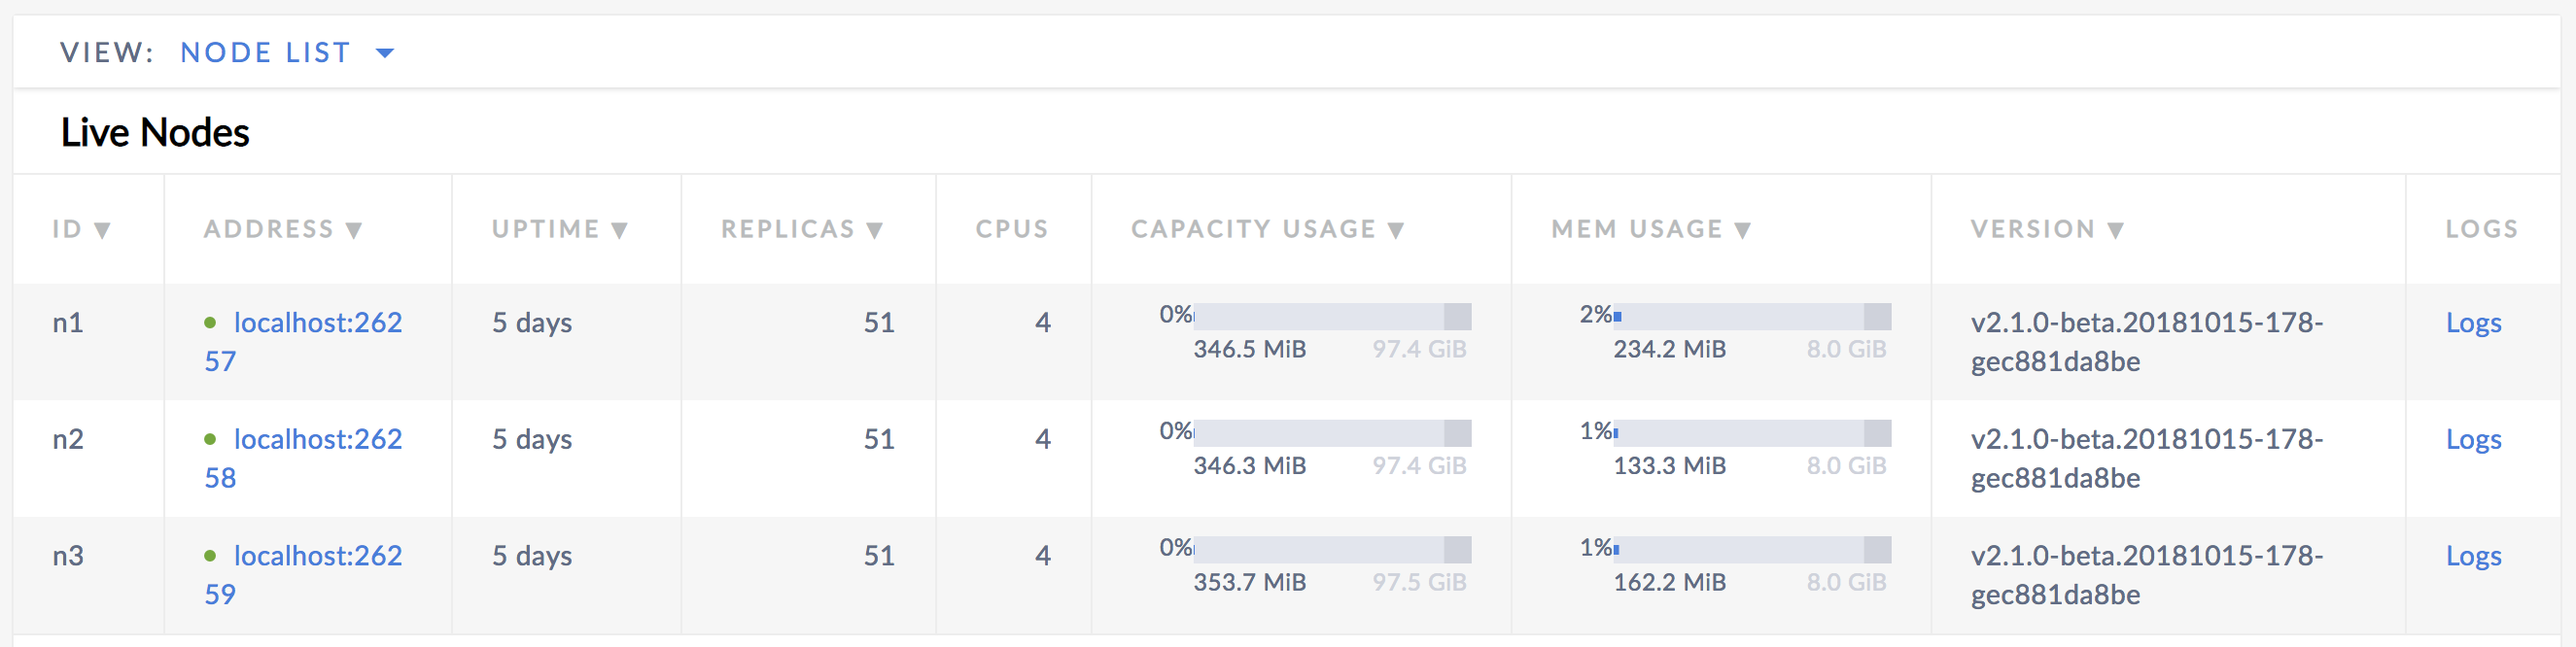
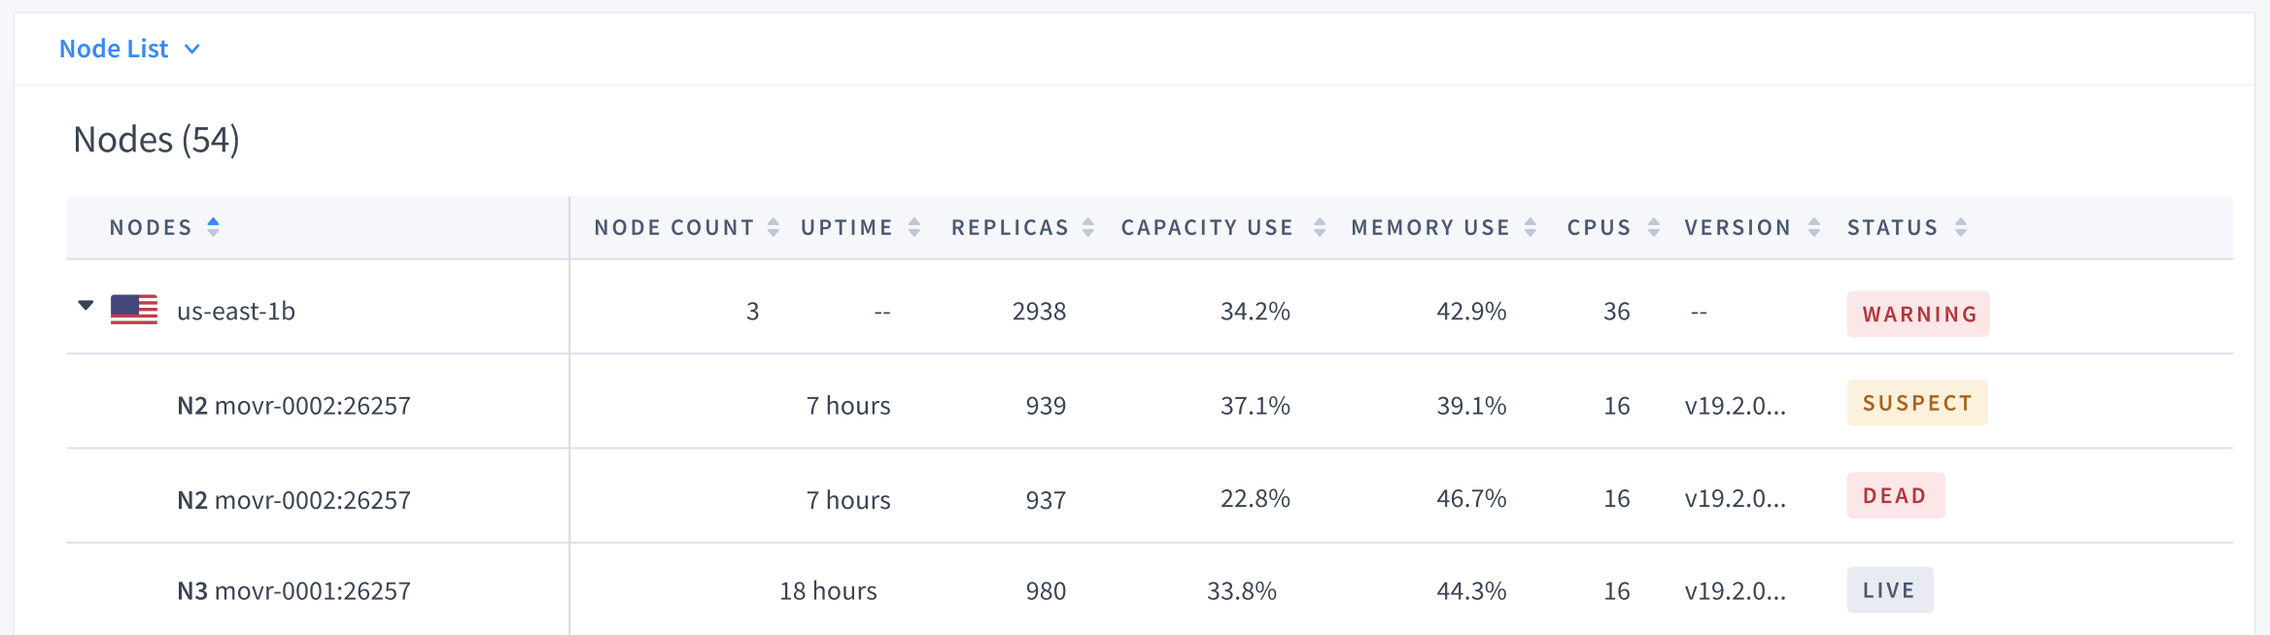
new Cluster Overview / Node List page

diff --git a/v20.1/admin-ui-cluster-overview-page.md b/v20.1/admin-ui-cluster-overview-page.md
@@ -3,88 +3,112 @@ title: Cluster Overview Page
 toc: true
 ---
 
-The **Cluster Overview** page of the Admin UI provides details of the cluster nodes and their liveness status, replication status, uptime, and key hardware metrics. [Enterprise users](enterprise-licensing.html) can enable and switch to the [Node Map](admin-ui-cluster-overview-page.html#node-map-enterprise) view.
+The **Cluster Overview** page of the Admin UI displays key metrics about your cluster and individual nodes. These include liveness status, replication status, uptime, and hardware usage.
 
-## Cluster Overview Panel
+If you have an [enterprise license](enterprise-licensing.html), you can enable the [Node Map](#node-map-enterprise) view for a visual representation of your cluster.
 
-<img src="{{ 'images/v20.1/admin-ui-cluster-overview-panel.png' | relative_url }}" alt="CockroachDB Admin UI" style="border:1px solid #eee;max-width:100%" />
+## Cluster Overview panel
 
-The **Cluster Overview** panel provides the following metrics:
+Use the **Cluster Overview** panel to quickly assess the capacity and health of your cluster.
+
+<img src="{{ 'images/v20.1/admin-ui-cluster-overview-panel.png' | relative_url }}" alt="CockroachDB Admin UI cluster overview" style="border:1px solid #eee;max-width:100%" />
 
 Metric | Description
 --------|----
-Capacity Usage | <ul><li>Used capacity: The storage capacity used by CockroachDB (represented as a percentage of total storage capacity allocated across all nodes).</li><li>Usable capacity: The space available for CockroachDB data storage (i.e., the storage capacity of the machine excluding the capacity used by the Cockroach binary, operating system, and other system files). </li></ul>
-Node Status | <ul><li>The number of [live nodes](#live-nodes) in the cluster.</li><li>The number of suspect nodes in the cluster. A node is considered suspect if its liveness status is unavailable or the node is in the process of decommissioning.</li><li>The number of [dead nodes](#dead-nodes) in the cluster.</li>
+Capacity Usage | <ul><li>Used capacity: The total disk space in use by CockroachDB data across all nodes. This is also shown as a percentage of the total usable capacity across all nodes, and excludes the disk space used by the Cockroach binary, operating system, and other system files.</li><li>Usable capacity: The total disk space reserved for CockroachDB data. This is defined by [`--store`](cockroach-start.html#store) and is distinct from the total disk size of your machines.</li></ul>
+Node Status | <ul><li>The number of `LIVE` nodes in the cluster.</li><li>The number of `SUSPECT` nodes in the cluster. A node is considered suspect if its [liveness status is unavailable](cluster-setup-troubleshooting.html#node-liveness-issues) or the node is in the process of [decommissioning](#decommissioned-nodes).</li><li>The number of `DEAD` nodes in the cluster.</li>
 Replication Status | <ul><li>The total number of [ranges](architecture/overview.html#glossary) in the cluster.</li><li>The number of [under-replicated ranges](admin-ui-replication-dashboard.html#review-of-cockroachdb-terminology) in the cluster. A non-zero number indicates an unstable cluster.</li><li>The number of [unavailable ranges](admin-ui-replication-dashboard.html#review-of-cockroachdb-terminology) in the cluster. A non-zero number indicates an unstable cluster.</li>
 
 ## Node List
 
-The **Node List** is the default view on the **Overview** page.
-<img src="{{ 'images/v20.1/admin-ui-node-list.png' | relative_url }}" alt="CockroachDB Admin UI" style="border:1px solid #eee;max-width:100%" />
+The **Node List** groups nodes by locality. The highest-level locality tier is used to organize the Node List. Hover over a locality to see all localities for the group of nodes.
 
-### Live Nodes
-Live nodes are nodes that are online and responding. They are marked with a green dot. If a node is removed or dies, the dot turns yellow to indicate that it is not responding. If the node remains unresponsive for a certain amount of time (5 minutes by default), the node turns red and is moved to the [**Dead Nodes**](#dead-nodes) section, indicating that it is no longer expected to come back.
+{{site.data.alerts.callout_success}}
+We recommend [defining `--locality` flags when starting nodes](cockroach-start.html#locality). CockroachDB uses locality to distribute replicas and mitigate [network latency](admin-ui-network-latency-page.html). Locality is also a prerequisite for enabling the [Node Map](#node-map-enterprise).
+{{site.data.alerts.end}}
 
-The following details are shown for each live node:
+### Node status
+
+Each locality and node is displayed with its current operational status.
+
+Locality Status | Description
+-------|------------
+`LIVE` | All nodes in the locality are live.
+`WARNING` | Locality has 1 or more `SUSPECT`, `DECOMMISSIONING`, or `DEAD` nodes (red indicates a dead node).
+
+Node Status | Description
+-------|------------
+`LIVE` | Node is online and responding.
+`SUSPECT` | Node has an [unavailable liveness status](cluster-setup-troubleshooting.html#node-liveness-issues).
+`DECOMMISSIONING` | Node is in the [process of decommissioning](remove-nodes.html#how-it-works).
+`DECOMMISSIONED` | Node has been decommissioned for permanent removal from the cluster.
+`DEAD` | Node has not responded for 5 minutes.
+
+{{site.data.alerts.callout_info}}
+Nodes are considered dead once they have not responded for a certain amount of time (5 minutes by default). At this point, the [automated repair process](cockroach-quit.html#how-it-works) starts, wherein CockroachDB rebalances replicas from dead nodes to live nodes, using the unaffected replicas as sources. 
+{{site.data.alerts.end}}
+
+### Node details
+
+The following details are also shown.
+
+<img src="{{ 'images/v20.1/admin-ui-node-list.png' | relative_url }}" alt="CockroachDB Admin UI node list" style="border:1px solid #eee;max-width:100%" />
 
 Column | Description
 -------|------------
-ID | The ID of the node.
-Address | The address of the node. You can click on the address to view further details about the node.
-Uptime | How long the node has been running.
-Replicas | The number of replicas on the node.
-CPUs | The number of CPU cores on the machine.
-Capacity Usage | The storage capacity used by CockroachDB as a percentage of the total usable capacity on the node. The value is represented numerically and as a bar graph.
-Mem Usage | The memory used by CockroachDB as a percentage of the total memory on the node. The value is represented numerically and as a bar graph.
-Version | The build tag of the CockroachDB version installed on the node.
-Logs | Click **Logs** to see detailed logs for the node. [Requires `admin` privileges](admin-ui-overview.html#admin-ui-access) on secure clusters.
-
-### Dead Nodes
-
-Nodes are considered dead once they have not responded for a certain amount of time (5 minutes by default). At this point, the automated repair process starts, wherein CockroachDB automatically rebalances replicas from the dead node, using the unaffected replicas as sources. See [Stop a Node](cockroach-quit.html#how-it-works) for more information.
-
-The following details are shown for each dead node:
-
-Column | Description
--------|------------
-ID | The ID of the node.
-Address | The address of the node. You can click on the address to view further details about the node.
-Down Since | How long the node has been down.
+Node Count | Number of nodes in the locality.
+Nodes | Nodes are grouped by locality and displayed with their address. Click the address to view node statistics. Hover over a row and click **Logs** to see the node's log.
+Uptime | Amount of time the node has been running.
+Replicas | Number of replicas on the node or in the locality.
+Capacity Usage | Disk space used by CockroachDB data as a percentage of the usable capacity on the node or in the locality.
+Memory Usage | Memory used by CockroachDB as a percentage of the total memory on the node or in the locality.
+CPUs | Number of vCPUs on the machine.
+Version | Build tag of the CockroachDB version installed on the node.
 
 ### Decommissioned Nodes
 
-Nodes that have been decommissioned for permanent removal from the cluster are listed in the **Decommissioned Nodes** table.
+Nodes that have been decommissioned for permanent removal from the cluster are listed in the table of **Recently Decommissioned Nodes**. You can see the full history of decommissioned nodes by clicking **View all decommissioned nodes**.
 
-When you decommission a node, CockroachDB lets the node finish in-flight requests, rejects any new requests, and transfers all range replicas and range leases off the node so that it can be safely shut down. See [Remove Nodes](remove-nodes.html) for more information.
+<img src="{{ 'images/v20.1/admin-ui-decommissioned-nodes.png' | relative_url }}" alt="CockroachDB Admin UI node list" style="border:1px solid #eee;max-width:100%" />
+
+{{site.data.alerts.callout_info}}
+When you [decommission a node](remove-nodes.html), CockroachDB lets the node finish in-flight requests, rejects any new requests, and transfers all range replicas and range leases off the node so that it can be safely shut down.
+{{site.data.alerts.end}}
 
 ## Node Map (Enterprise)
 
-The **Node Map** is an [enterprise-only](enterprise-licensing.html) feature that gives you a visual representation of the geographical configuration of your cluster.
+The **Node Map** is an [enterprise](enterprise-licensing.html) feature that visualizes the geographical configuration of your cluster. It requires that [`--locality` flags have been defined](cockroach-start.html#locality) for your nodes.
+
+For guidance on enabling and configuring the node map, see [Enable the Node Map](enable-node-map.html).
 
 <img src="{{ 'images/v20.1/admin-ui-node-map.png' | relative_url }}" alt="CockroachDB Admin UI Summary Panel" style="border:1px solid #eee;max-width:90%" />
 
-The Node Map consists of the following components:
+The Node Map is populated with **locality components** and **node components**, using the latitude and longitude of each locality to position the components on the map.
 
-### Region component
+### Locality component
+
+The map shows the components for the highest-level locality tier (e.g., region). You can click on the **Node Count** of a locality component to view any lower-level localities (e.g., datacenter).
 
 <img src="{{ 'images/v20.1/admin-ui-region-component.png' | relative_url }}" alt="CockroachDB Admin UI Summary Panel" style="border:1px solid #eee;max-width:90%" />
 
 {{site.data.alerts.callout_info}}
-For multi-core systems, the user CPU percent can be greater than 100%. Full utilization of one core is considered as 100% CPU usage. If you have n cores, then the user CPU percent can range from 0% (indicating an idle system) to (n*100)% (indicating full utilization).
+On multi-core systems, the displayed CPU usage can be greater than 100%. Full utilization of 1 core is considered as 100% CPU usage. If you have _n_ cores, then CPU usage can range from 0% (indicating an idle system) to (_n_ * 100)% (indicating full utilization).
 {{site.data.alerts.end}}
 
 ### Node component
 
+Node components are accessed by clicking on the **Node Count** of the lowest-level locality component. 
+
 <img src="{{ 'images/v20.1/admin-ui-node-components.png' | relative_url }}" alt="CockroachDB Admin UI Summary Panel" style="border:1px solid #eee;max-width:90%" />
 
 {{site.data.alerts.callout_info}}
-For multi-core systems, the user CPU percent can be greater than 100%. Full utilization of one core is considered as 100% CPU usage. If you have n cores, then the user CPU percent can range from 0% (indicating an idle system) to (n*100)% (indicating full utilization).
+On multi-core systems, the displayed CPU usage can be greater than 100%. Full utilization of 1 core is considered as 100% CPU usage. If you have _n_ cores, then CPU usage can range from 0% (indicating an idle system) to (_n_ * 100)% (indicating full utilization).
 {{site.data.alerts.end}}
-
-For guidance on enabling and using the node map, see [Enable Node Map](enable-node-map.html).
 
 ## See also
 
+- [Production Checklist](recommended-production-settings.html)
+- [Locality](cockroach-start.html#locality)
 - [Troubleshooting Overview](troubleshooting-overview.html)
 - [Support Resources](support-resources.html)
 - [Raw Status Endpoints](monitoring-and-alerting.html#raw-status-endpoints)
